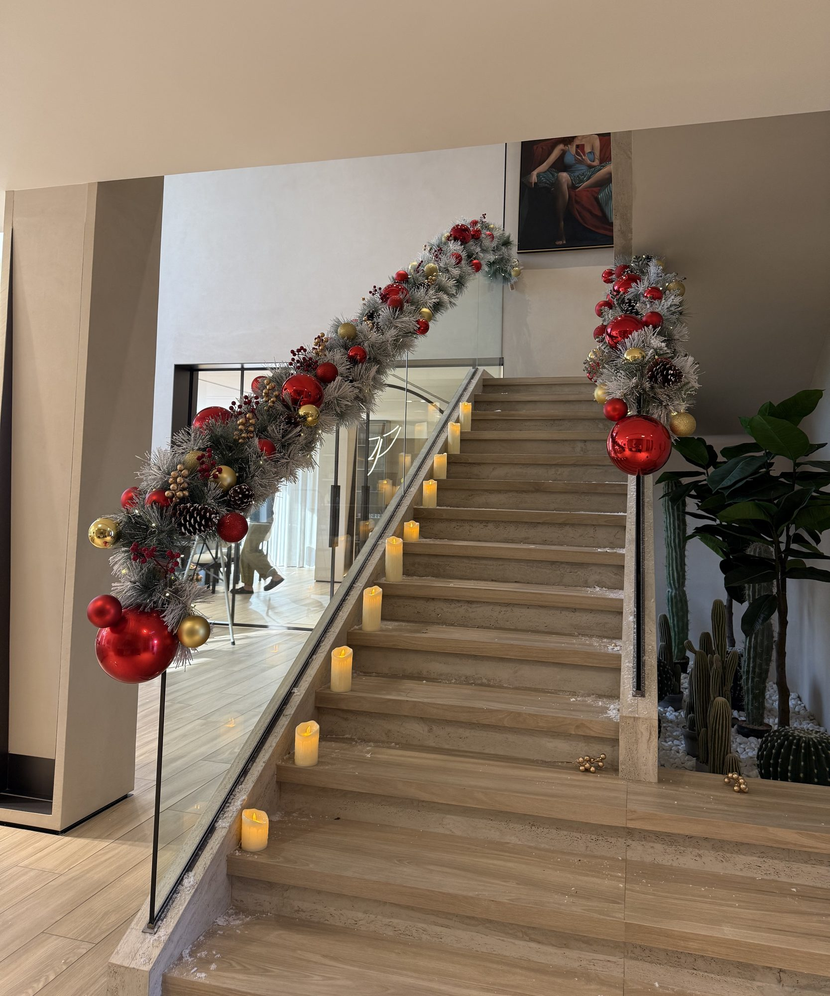
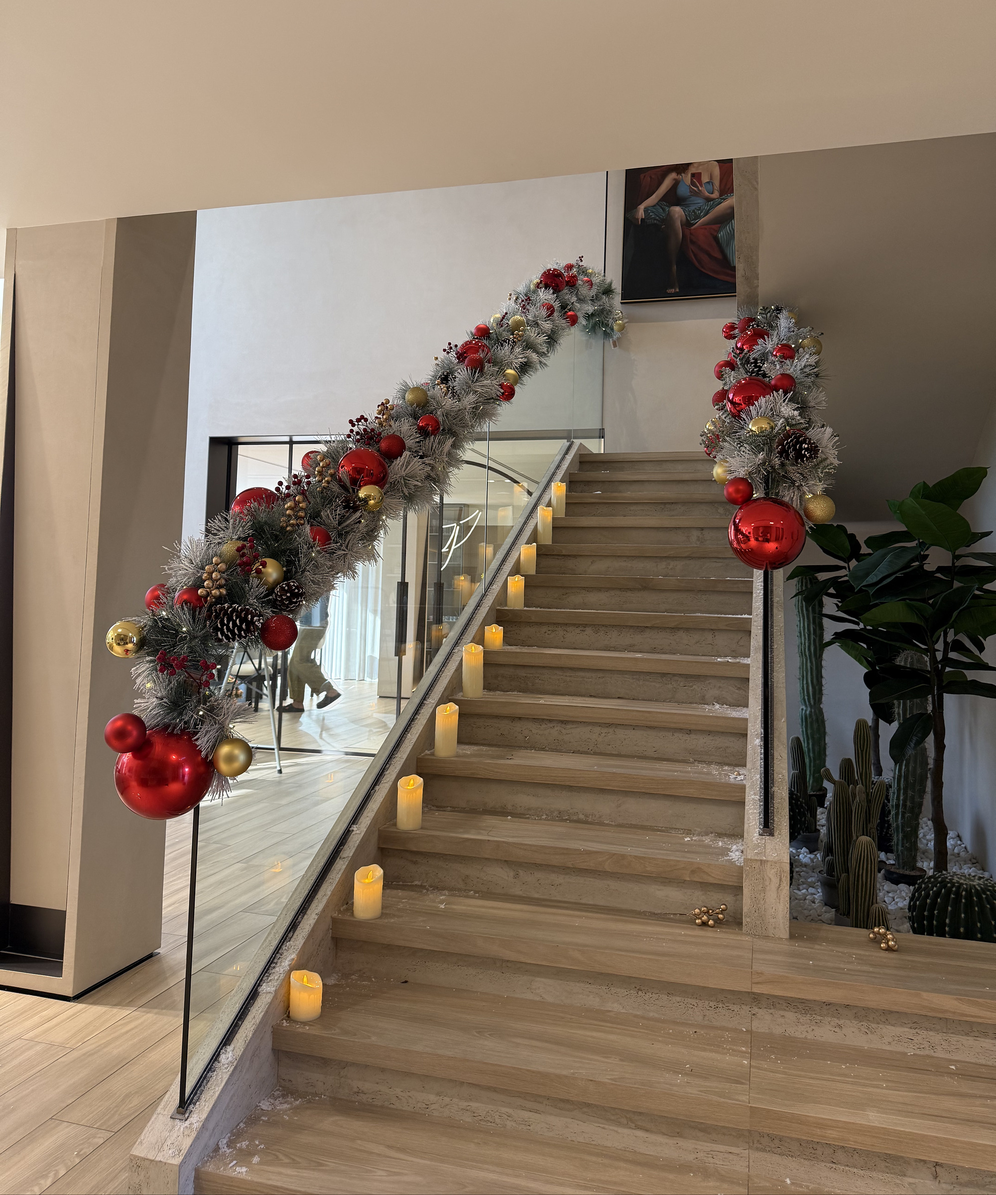
High-quality hero image for every page

Changed region(s): [[0.1248, 0.217, 0.6239, 0.62], [0.7175, 0.248, 0.8422, 0.434], [0.2496, 0.62, 0.3119, 0.651]]

diff --git a/content/en/pages.ts b/content/en/pages.ts
@@ -265,7 +265,7 @@ export const commercial = {
   h1: 'Office Christmas decorators in Dubai and Sharjah',
   intro:
     'Your guests, clients and team notice Christmas before anything else. As office Christmas decorators, we design and install Christmas decoration for offices, hotels, restaurants and shops across Dubai and Sharjah — from DIFC and Business Bay to Al Majaz — striking from the entrance, practical around daily operations, and taken down when you need the space back.',
-  hero: 'tall-bronze-champagne-tree-lounge-window' as ImageId,
+  hero: 'spiral-red-peppermint-garland-tree-greenery' as ImageId,
   audiences: [
     {
       id: 'offices',
@@ -529,7 +529,7 @@ export const cities: Record<'dubai' | 'sharjah', CityPage> = {
     h1: 'Christmas decoration in Sharjah',
     intro:
       'The same full service we offer in Dubai, for homes across Sharjah: the tree delivered and styled, the front door framed, the staircase dressed and — for villas — the house lit for the evenings.',
-    hero: 'arched-entrance-evergreen-garland-large-red-bow',
+    hero: 'evergreen-door-arch-red-gold-baubles-wreath-white-door',
     sections: [
       {
         heading: 'Family villas and townhouses',
@@ -635,7 +635,7 @@ export const landings: Record<'villa' | 'luxury', CityPage> = {
     accent: 'Villa',
     intro:
       'A villa deserves more than a tree in the corner. We decorate the whole house — the entrance your guests arrive at, the hall, the staircase, the dining table and the façade after dark — in one palette, supplied, installed and styled by our team.',
-    hero: 'villa-facade-icicle-lights-reindeer-dusk',
+    hero: 'gold-champagne-tree-star-picks-villa-lounge',
     sections: [
       {
         heading: 'We plan the villa as one composition',
@@ -1064,7 +1064,7 @@ export const guides = {
     h1: 'What size Christmas tree fits your ceiling?',
     intro:
       'The most common Christmas décor mistake is a tree that’s the wrong height — too short and it looks lost, too tall and the topper bends against the ceiling. Here’s how to get it right.',
-    image: 'red-gold-tree-poinsettias-faux-fur-skirt-living-room' as ImageId,
+    image: 'classic-green-tree-red-silver-baubles-apartment' as ImageId,
     rule: {
       heading: 'The rule',
       body: 'Tree height = ceiling height − about 30 cm.',
@@ -1147,7 +1147,7 @@ export const guides = {
     h1: 'How to plan your office Christmas décor',
     intro:
       'Office Christmas décor is mostly a planning job. Get the zones, approvals and brief right, and installation is the easy part. This guide walks through it in the order you’ll need it — and if you’d rather hand it over, see our [office Christmas decoration in Dubai and Sharjah](/commercial-christmas-decor).',
-    image: 'spiral-red-bauble-garland-tree-plants-interior' as ImageId,
+    image: 'champagne-gold-tree-star-topper-office-window' as ImageId,
     steps: [
       {
         heading: '1. Start with the zones',

diff --git a/lib/og-pages.ts b/lib/og-pages.ts
@@ -14,15 +14,15 @@ export function ogPages(locale: Locale): Record<string, OgPage> {
   const out: Record<string, OgPage> = {
     home: { title: 'Christmas decoration in Dubai, installed for you', kicker: 'Christmas decorators · Dubai & Sharjah', image: 'red-velvet-bow-tree-gold-baubles-gift-boxes' },
     packages: { title: 'Christmas decoration packages', kicker: 'From AED 5,500 · delivery, installation & styling included', image: 'package-gold' },
-    services: { title: p.servicesHub.h1, kicker: 'Dubai & Sharjah', image: 'emerald-gold-bauble-arch-sunburst-door' },
+    services: { title: p.servicesHub.h1, kicker: 'Dubai & Sharjah', image: 'glass-entrance-garland-arch-red-bows-baubles' },
     commercial: { title: 'Office Christmas decorators in Dubai', kicker: 'Offices · hotels · restaurants · retail', image: p.commercial.hero },
     dubai: { title: p.cities.dubai.h1, kicker: 'Villas · apartments · offices', image: p.cities.dubai.hero },
     sharjah: { title: p.cities.sharjah.h1, kicker: 'Villas · townhouses · apartments', image: p.cities.sharjah.hero },
     villa: { title: p.landings.villa.h1, kicker: 'Tree · entrance · staircase · house lighting', image: p.landings.villa.hero },
     luxury: { title: p.landings.luxury.h1, kicker: 'Bespoke design · installed & styled', image: p.landings.luxury.hero },
-    gallery: { title: p.galleryPage.h1, kicker: 'Trees · door arches · lighting', image: 'emerald-gold-bauble-arch-sunburst-door' },
-    about: { title: 'Evergreen, by name and by nature', kicker: 'About Everpine Events', image: 'stylist-placing-red-baubles-on-tree' },
-    faq: { title: 'Christmas decoration FAQ', kicker: 'Prices · trees · booking · removal', image: 'staircase-frosted-garland-red-gold-baubles-candles' },
+    gallery: { title: p.galleryPage.h1, kicker: 'Trees · door arches · lighting', image: 'blue-silver-flocked-tree-fur-skirt-living-room' },
+    about: { title: 'Evergreen, by name and by nature', kicker: 'About Everpine Events', image: 'dining-centrepiece-installation-in-progress' },
+    faq: { title: 'Christmas decoration FAQ', kicker: 'Prices · trees · booking · removal', image: 'red-bauble-tree-candle-lights-entrance-garland' },
     contact: { title: 'Let’s plan your Christmas', kicker: 'Get a quote · Dubai & Sharjah', image: p.contact.image },
     privacy: { title: 'Privacy policy', kicker: 'Everpine Events', image: 'onyx-counter-garland-runner-reindeer-figurines' },
     [p.guides.treeSize.slug]: { title: p.guides.treeSize.h1, kicker: 'Guide · with calculator', image: p.guides.treeSize.image },

diff --git a/app/[locale]/gallery/page.tsx b/app/[locale]/gallery/page.tsx
@@ -97,7 +97,7 @@ export default async function Gallery({ params }: Props) {
         eyebrow={g.eyebrow}
         h1={g.h1}
         intro={g.intro}
-        image="double-door-arch-red-bows-twin-wreaths-oversized-baubles"
+        image="blue-silver-flocked-tree-fur-skirt-living-room"
         ctas={<ContactButtons dict={dict} locale={locale} placement="gallery_hero" compact />}
       />
       <section className="section" style={{ paddingTop: 'var(--s-7)' }} id="gallery-grid">

diff --git a/app/[locale]/faq/page.tsx b/app/[locale]/faq/page.tsx
@@ -36,7 +36,7 @@ export default async function FaqPage({ params }: Props) {
         eyebrow={f.eyebrow}
         h1={f.h1}
         intro={f.intro}
-        image="olive-tree-planter-baubles-nutcracker-reindeer"
+        image="red-bauble-tree-candle-lights-entrance-garland"
         ctas={<ContactButtons dict={dict} locale={locale} placement="faq_hero" compact />}
       />
       <nav aria-label={dict.ui.faqSections} className="container" style={{ marginTop: 'var(--s-6)' }}>

diff --git a/content/en/services.ts b/content/en/services.ts
@@ -204,7 +204,7 @@ export const servicePages: ServicePage[] = [
     accent: 'Christmas lights',
     intro:
       'Evenings are when a Gulf Christmas happens. We outline the house in warm light — rooflines, balconies, arches — so it glows from the street the moment the sun goes down.',
-    hero: 'villa-facade-icicle-lights-reindeer-dusk',
+    hero: 'lit-flocked-tree-red-baubles-terrace-night',
     sections: [
       {
         heading: 'House lighting',

diff --git a/app/[locale]/about/page.tsx b/app/[locale]/about/page.tsx
@@ -33,7 +33,7 @@ export default async function About({ params }: Props) {
         eyebrow={a.eyebrow}
         h1={a.h1}
         intro={a.intro}
-        image="staircase-frosted-garland-red-gold-baubles-candles"
+        image="dining-centrepiece-installation-in-progress"
         ctas={<ContactButtons dict={dict} locale={locale} placement="about_hero" compact />}
       />
       <section className="section">

diff --git a/app/[locale]/services/page.tsx b/app/[locale]/services/page.tsx
@@ -34,7 +34,7 @@ export default async function ServicesHub({ params }: Props) {
         eyebrow={h.eyebrow}
         h1={h.h1}
         intro={h.intro}
-        image="emerald-gold-bauble-arch-sunburst-door"
+        image="glass-entrance-garland-arch-red-bows-baubles"
         ctas={<ContactButtons dict={dict} locale={locale} placement="services_hero" compact />}
       />
       <section className="section">
